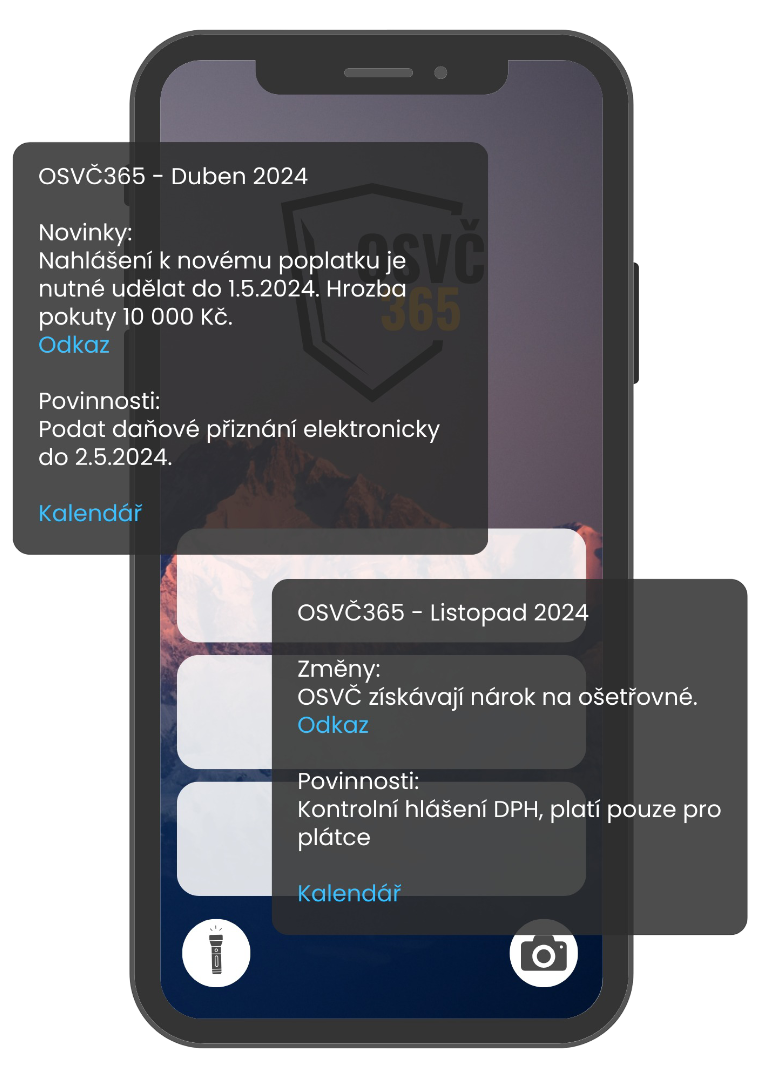
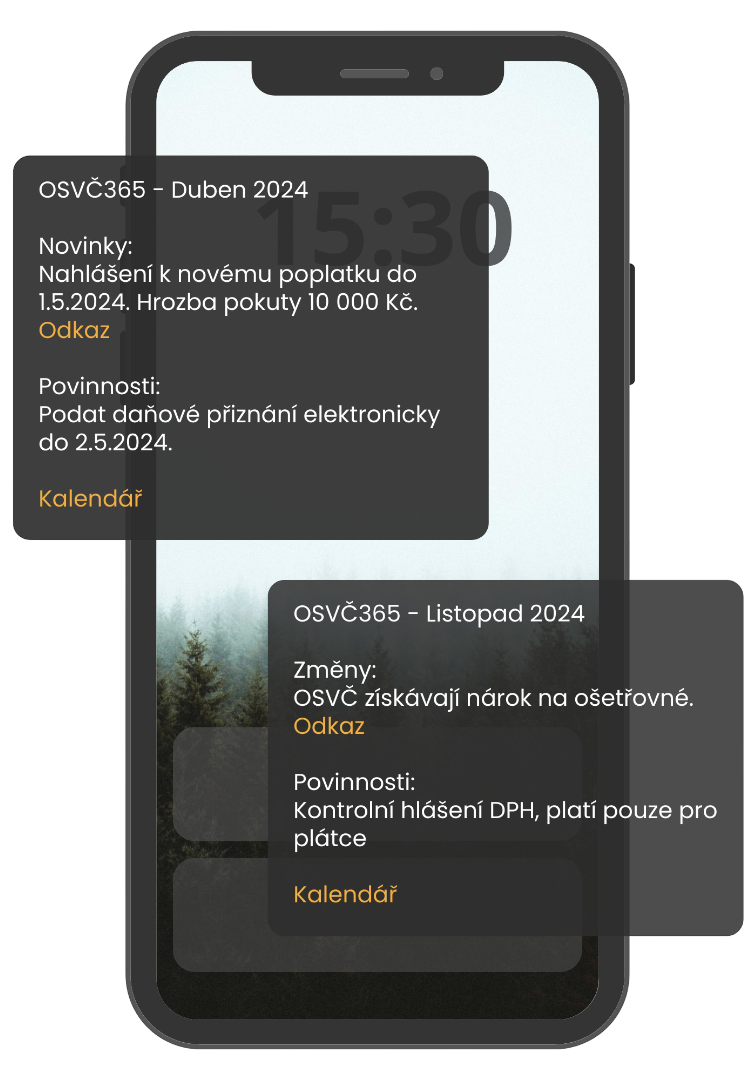
Frontend: Adding phone picture, testing colors

diff --git a/frontend/app/_components/homepage/About.tsx b/frontend/app/_components/homepage/About.tsx
@@ -12,23 +12,9 @@ export default function About() {
           subheading="O nás"
           heading="Proč to děláme?"
           text="Chcete to jednou větou? Už nás prostě nebaví neschopnost státu."
+          mb={4}
         />
         <div className="text-lg flex flex-col gap-6 text-textP text-center">
-          {" "}
-          <p>
-            <span className="text-xl text-primary">
-              Největším nepřítelem každého podnikatele je zpravidla úředník
-            </span>
-            . Lidé odříznutí od reality, kterí jsou placení z daní, se snaží
-            rozhodovat o světě za zdmi jejich kanceláře. Nikdy to pořádně
-            nefungovalo, nikdy to ani dobře fungovat nemůže. Důvod je celkem
-            jednoduchý -{" "}
-            <span className="text-xl text-primary">
-              chybí expertíza, motivace a osobní zájem. Tedy přesně to, co dělá
-              podnikatele podnikatelem
-            </span>
-            .
-          </p>
           <p>
             <span className="text-xl text-primary">
               Podnikat v Česku znamená zvládat desítky povinností, nařízení a
@@ -49,26 +35,26 @@ export default function About() {
             </span>{" "}
             Ne proto, že byste chtěli něco obejít, ale protože vám to prostě
             nikdo nepřipomněl. Žádný úřad vám nenapíše: „Pozor, máte odevzdat
-            přehled, zbývá 5 dní.“ Místo toho se spoléhá, že zapomenete, protože
-            do státní kasy se přeci peníze nějak dostat musí.
+            přehled, zbývá 5 dní.“ Už je jedno, jestli jde jen o cílenou
+            neschopnost, nebo o záměr směřující k vybírání peněz.
           </p>
         </div>
-        <h4>A tady začínáme my...</h4>
+        <h5>A tady začínáme my...</h5>
         <div className="text-lg flex flex-col gap-6 text-textP text-center">
           {" "}
           <p>
             <span className="text-xl text-primary">
               {" "}
-              Systém už nám leze krkem dlouho. Rozhodli jsme se proto založit
-              jednoduchou službu, která hlídá zákonné povinnosti za Vás.
+              Tento systém už se nám nelíbí hodně dlouho. Rozhodli jsme se proto
+              založit jednoduchou službu, která hlídá zákonné povinnosti za Vás.
             </span>{" "}
             Sledování změn, připomínky termínů, upozornění e-mailem i SMS. Žádné
-            zbytečné úřadování. Jen klid, že na nic nezapomenete a že vás nějaký
-            ouřada nedostane kvůli hloupému termínu.
+            zbytečné úřadování, žádné nepodstatné informace. Jen klid, že na nic
+            nezapomenete a že nebudete muset platit zbytečné pokuty.
           </p>
           <p className="text-xl text-tertiary">
             Tenhle projekt vznikl proto, že stát selhává v úplném základu -
-            srozumitelně informovat občany. A nás už to prostě nebaví.
+            srozumitelně informovat občany.
           </p>
         </div>
       </div>

diff --git a/frontend/app/_components/headings/HeadingCenter.tsx b/frontend/app/_components/headings/HeadingCenter.tsx
@@ -4,11 +4,21 @@ type Props = {
   heading: string;
   subheading: string;
   text: string;
+  mb?: number;
 };
 
-export default function HeadingCenter({ heading, subheading, text }: Props) {
+export default function HeadingCenter({
+  heading,
+  subheading,
+  text,
+  mb,
+}: Props) {
   return (
-    <div className="flex flex-col items-center mb-10 gap-3 max-w-200 justify-center text-center">
+    <div
+      className={`flex flex-col items-center mb-${
+        mb ? mb : 10
+      } gap-3 max-w-200 justify-center text-center`}
+    >
       <p className="font-semibold uppercase text-secondary">{subheading}</p>
       <h2 className="">{heading}</h2>
       <p className="text-xl text-textP">{text}</p>

diff --git a/frontend/app/_components/buttons/GoldButton.tsx b/frontend/app/_components/buttons/GoldButton.tsx
@@ -6,7 +6,7 @@ export default function GoldButton({ text, href }: Props) {
   return (
     <a
       href={href}
-      className="shadow-lg md:text-2xl text-lg uppercase font-semibold py-3 md:px-6 px-3 bg-linear-150 from-tertiary to-colorTo hover:scale-105 transition-all ease-in-out text-textLight rounded-lg font-oswald flex items-center justify-center"
+      className="shadow-lg cursor-pointer md:text-2xl text-lg uppercase font-semibold py-3 md:px-6 px-3 bg-linear-150 from-tertiary to-colorTo hover:scale-105 transition-all ease-in-out text-textLight rounded-lg font-oswald flex items-center justify-center"
     >
       {text}
     </a>

diff --git a/frontend/app/_components/homepage/SMS.tsx b/frontend/app/_components/homepage/SMS.tsx
@@ -11,10 +11,10 @@ export default function SMS() {
       <div className=" max-w-wrapper w-full md:grid flex flex-col-reverse grid-cols-2 gap-10 rounded-3xl">
         <Image
           src={sms}
-          height={500}
-          width={500}
+          height={1000}
+          width={1000}
           alt="sms-example"
-          className="contrast-110 justify-self-start max-w-120"
+          className="contrast-105 justify-self-start self-center md:self-start md:max-w-120 max-w-70"
         />
 
         <div>

diff --git a/frontend/app/_components/homepage/TextSection.tsx b/frontend/app/_components/homepage/TextSection.tsx
@@ -5,7 +5,7 @@ export default function TextSection() {
     <div className=" flex items-center justify-center md:px-10 px-4 py-10 bg-primary text-textLight">
       <div className="max-w-wrapper flex flex-col gap-10 items-center justify-center text-center mb-[-4px]">
         <p className="text-xl font-bebas uppercase">
-          Je to jako pojištění proti státní neschopnosti
+          Abyste se už nemuseli bát zmeškaných a nečekaných povinností
         </p>
       </div>
     </div>

diff --git a/frontend/app/_components/homepage/Pricing.tsx b/frontend/app/_components/homepage/Pricing.tsx
@@ -48,7 +48,7 @@ export default function Pricing() {
           </div>
           <a
             href={process.env.NEXT_PUBLIC_PAYMENT_LINK}
-            className="text-2xl uppercase text-primary font-semibold py-3 px-6 bg-textLight  rounded-lg flex items-center justify-center"
+            className="text-2xl uppercase cursor-pointer text-primary font-semibold py-3 px-6 bg-textLight  rounded-lg flex items-center justify-center"
           >
             Koupit
           </a>

diff --git a/frontend/app/globals.css b/frontend/app/globals.css
@@ -16,7 +16,7 @@
   --color-primary: var(--color-zinc-800);
   --color-secondary: var(--color-amber-400);
   --color-tertiary: var(--color-amber-700);
-  --color-colorTo: var(--color-amber-300);
+  --color-colorTo: var(--color-amber-500);
 
   --color-textLight: var(--color-zinc-50);
   --color-textP: var(--color-zinc-600);
